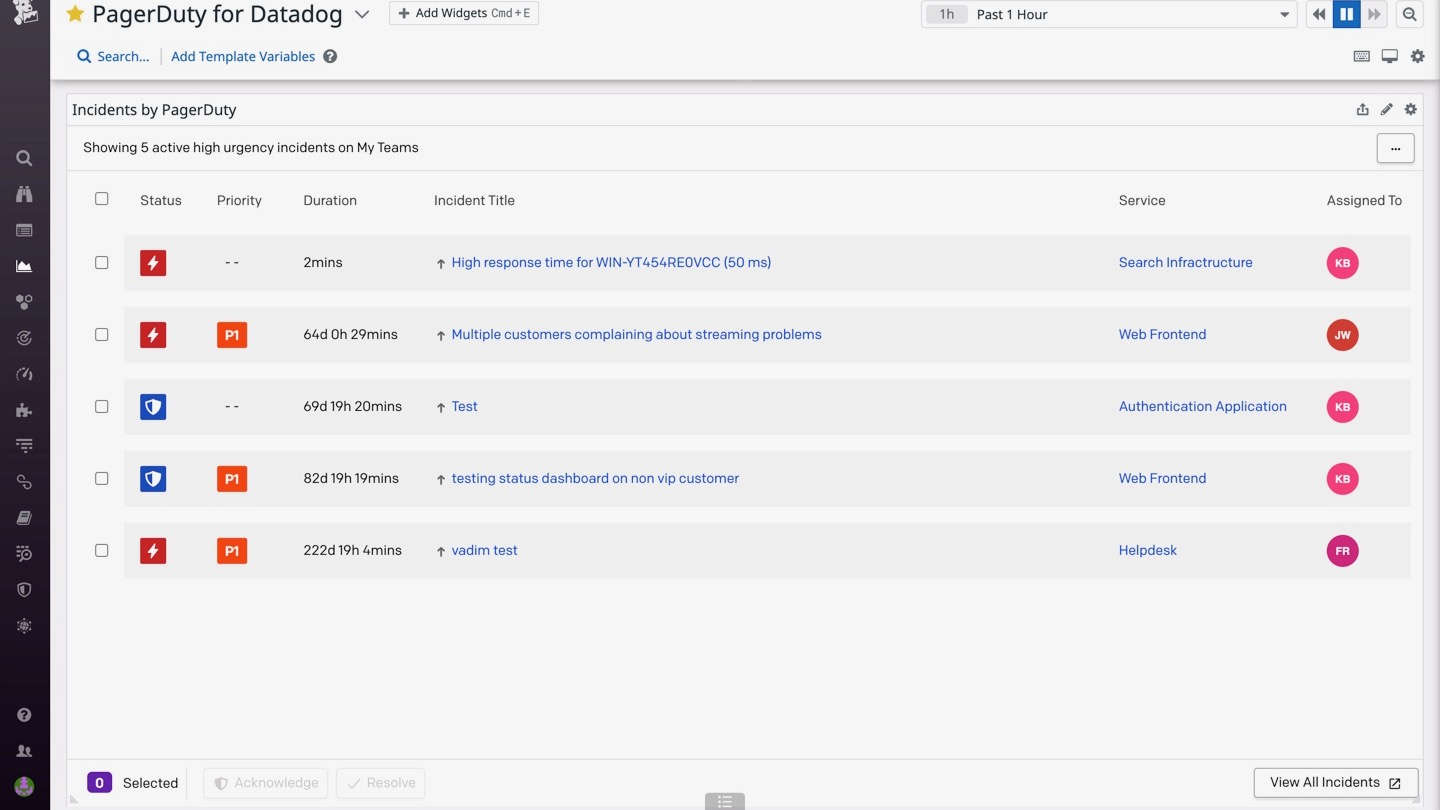
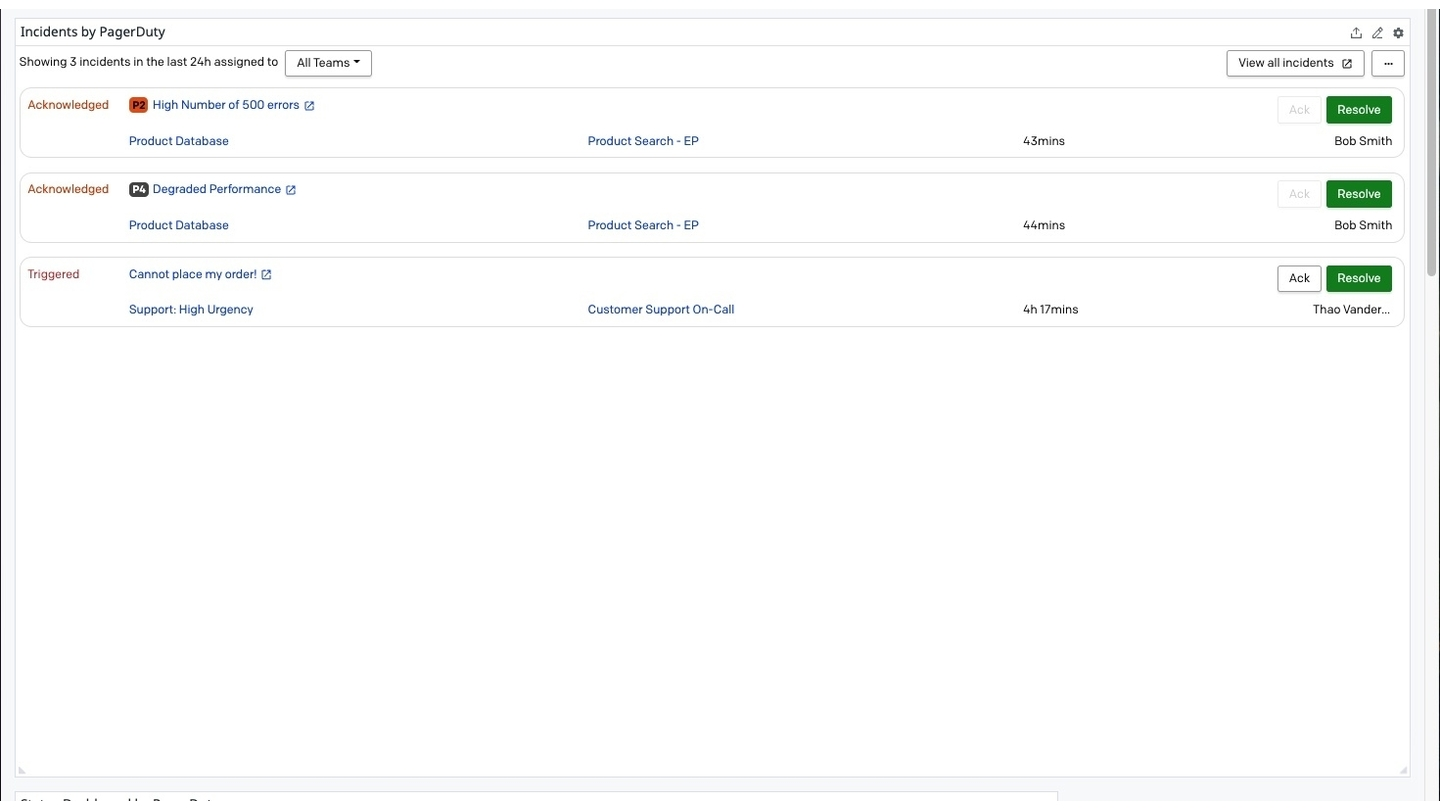
Update Pagerduty landing page and widget images (#1136)
* Update pagerduty integration images

* Make the pagerduty manifest description shorter to fix failing test

* Update image sizes to fit DD guidelines

* Add a changelog message to the PD integration

* Apply suggestions from code review

diff --git a/pagerduty/CHANGELOG.md b/pagerduty/CHANGELOG.md
@@ -1,8 +1,8 @@
 # CHANGELOG - PagerDuty
 
-1.0.0 / 2021-10-20
-==================
-### Changes
+## 1.0.0 / 2021-10-20
+ * [FEATURE] Status Dashboard by PagerDuty widget
+ * [FEATURE] Incidents by PagerDuty widget
+## 1.1.0 / 2022-02-03
+ * [FEATURE] Updated UI for the Incidents by PagerDuty widget. Widget now also displays Escalation Policies.
 
-* [FEATURE] Status Dashboard by PagerDuty widget
-* [FEATURE] Incidents by PagerDuty widget
